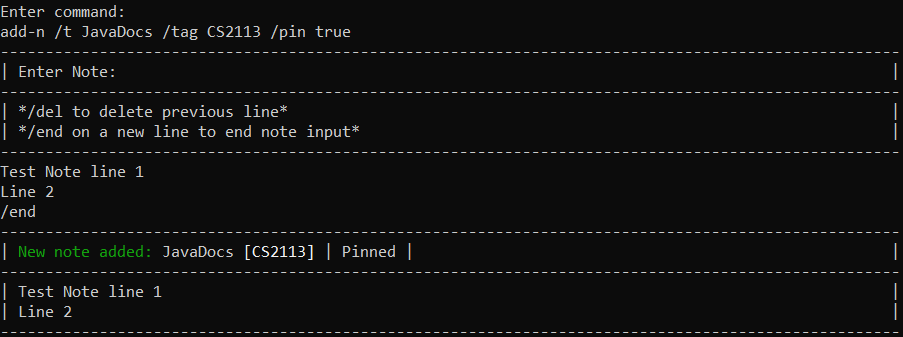
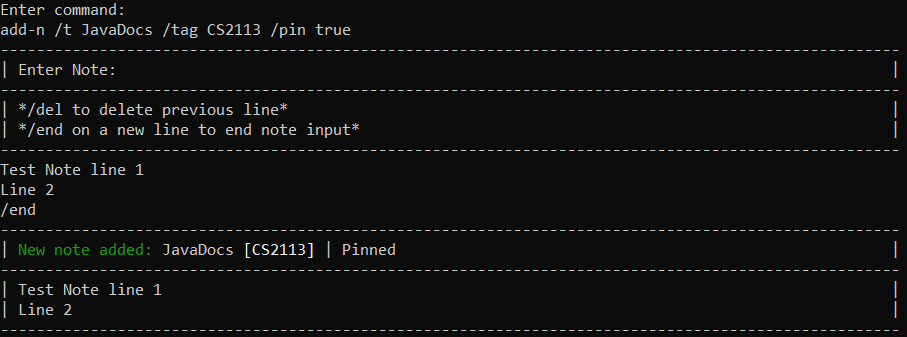
Minor display code changes

diff --git a/src/main/java/seedu/notus/ui/Formatter.java b/src/main/java/seedu/notus/ui/Formatter.java
@@ -115,7 +115,10 @@ public class Formatter {
         String header = message.concat(note.getTitle() + " " + note.getTagsName());
 
         header = header.concat("| " + note.getPinnedString() + " ");
-        header = header.concat("| " + note.getIsArchivedString());
+
+        if (note.getIsArchived()) {
+            header = header.concat("| " + note.getIsArchivedString());
+        }
 
         formattedString = formattedString.concat(generatesHeader(header));
         for (String line : note.getContent()) {

diff --git a/src/main/java/seedu/notus/data/notebook/Note.java b/src/main/java/seedu/notus/data/notebook/Note.java
@@ -122,7 +122,7 @@ public class Note extends TaggableObject {
     }
 
     public String getIsArchivedString() {
-        return (isArchived ? "Archived" : "");
+        return (isArchived ? "Archived" : "Unarchived");
     }
 
     public void setArchived(boolean archived) {
